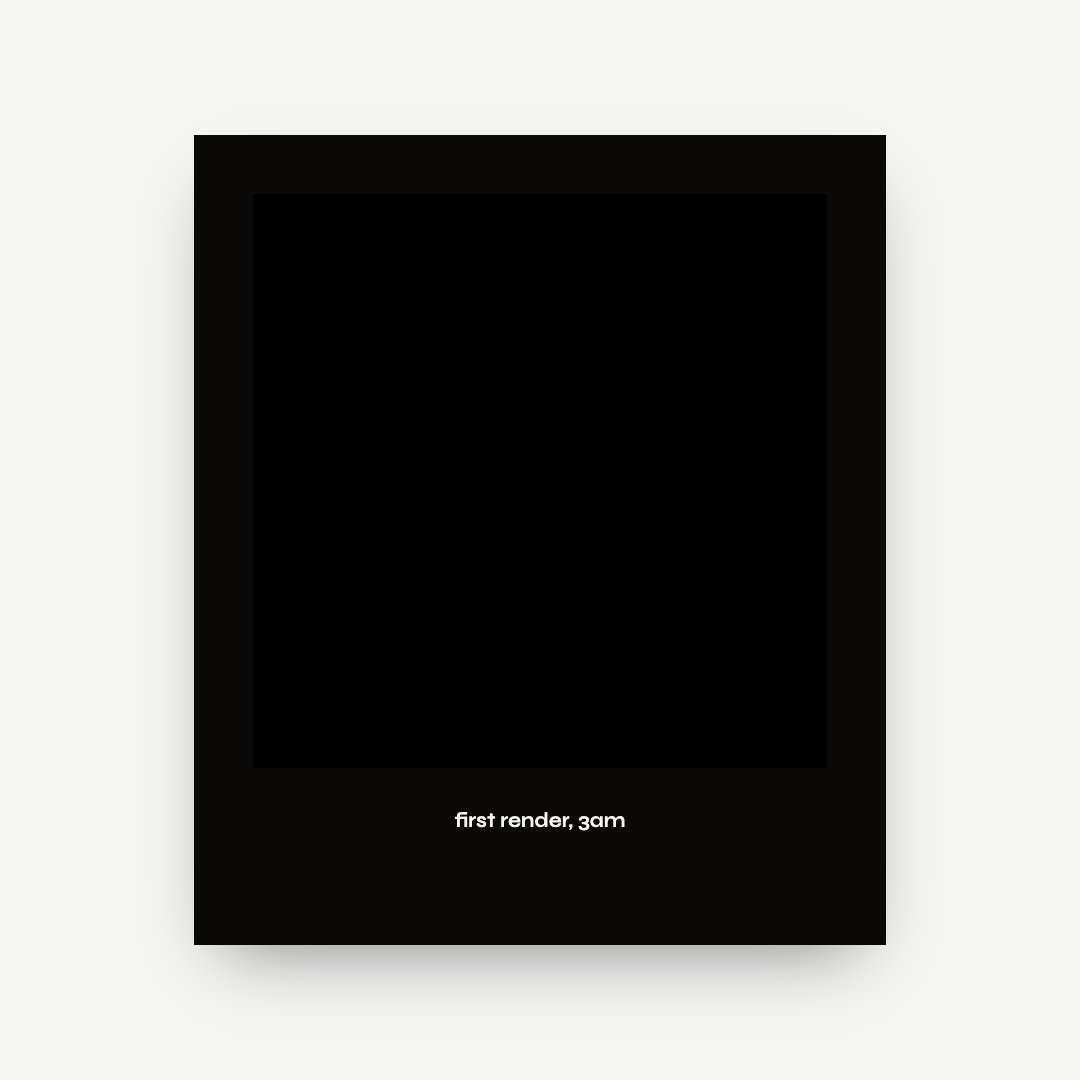
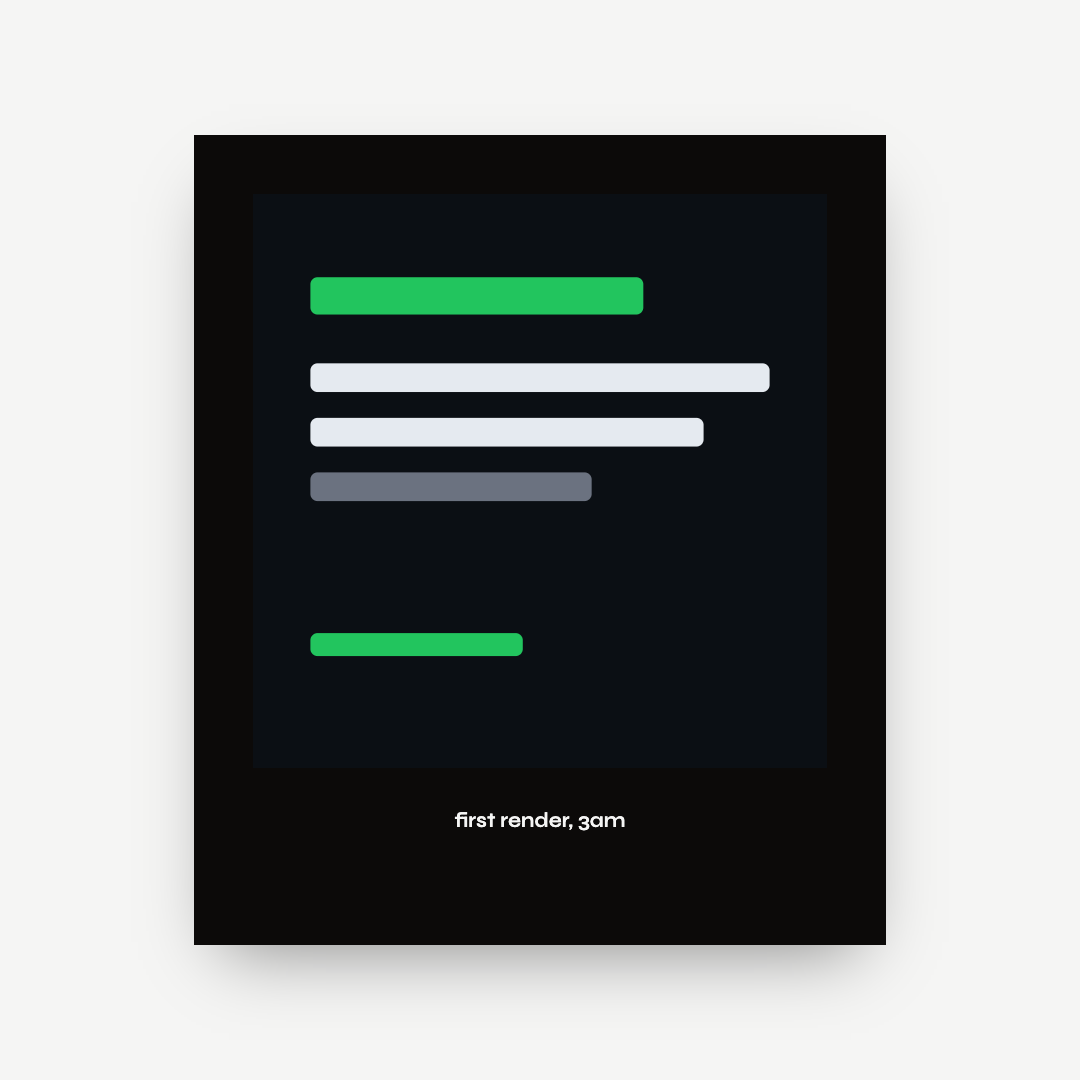
fix(quoteforge[templates]): scale versus, ticket, and calendar type from headline-size and fix grid chip contrast

Changed region(s): [[0.275, 0.3361, 0.7333, 0.4889], [0.275, 0.2444, 0.6111, 0.3056], [0.275, 0.5806, 0.4889, 0.6111]]

diff --git a/templates/calendar/style.css b/templates/calendar/style.css
@@ -31,7 +31,7 @@
 .cal-day {
   text-align: center;
   font-family: var(--font-headline);
-  font-size: clamp(48px, calc(4.4rem * var(--headline-scale)), 148px);
+  font-size: clamp(56px, calc(var(--headline-size) * var(--headline-scale) * 2), 240px);
   line-height: 1.05;
   font-weight: 700;
   color: var(--headline);
@@ -42,7 +42,7 @@
 .cal-what {
   flex: 0 0 auto;
   font-family: var(--font-headline);
-  font-size: clamp(24px, calc(1.6rem * var(--headline-scale)), 52px);
+  font-size: clamp(26px, calc(var(--headline-size) * var(--headline-scale) * 0.75), 96px);
   line-height: 1.2;
   color: var(--headline);
 }

diff --git a/templates/ticket/style.css b/templates/ticket/style.css
@@ -34,7 +34,7 @@
 
 .tk-title {
   font-family: var(--font-headline);
-  font-size: clamp(24px, calc(1.9rem * var(--headline-scale)), 64px);
+  font-size: clamp(26px, calc(var(--headline-size) * var(--headline-scale) * 0.72), 88px);
   line-height: 1.08;
   font-weight: 700;
   color: var(--headline);

diff --git a/templates/versus/style.css b/templates/versus/style.css
@@ -47,7 +47,7 @@
 
 .vs-value {
   font-family: var(--font-headline);
-  font-size: clamp(30px, calc(2.4rem * var(--headline-scale)), 76px);
+  font-size: clamp(36px, calc(var(--headline-size) * var(--headline-scale) * 0.9), 132px);
   line-height: 1.1;
   color: var(--headline);
   font-weight: 700;

diff --git a/templates/grid/style.css b/templates/grid/style.css
@@ -37,7 +37,7 @@
   font-size: clamp(11px, calc(0.8rem * var(--type-scale)), 20px);
   letter-spacing: 0.12em;
   text-transform: uppercase;
-  color: var(--headline);
+  color: var(--on-accent);
   background: var(--accent);
   padding: 0.3em 0.7em;
 }
